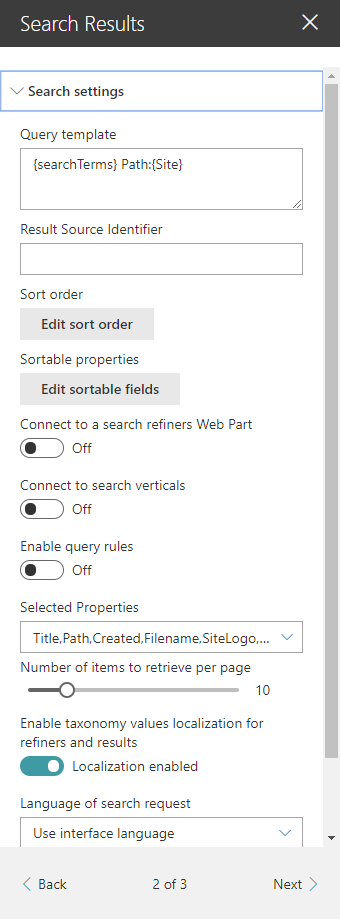
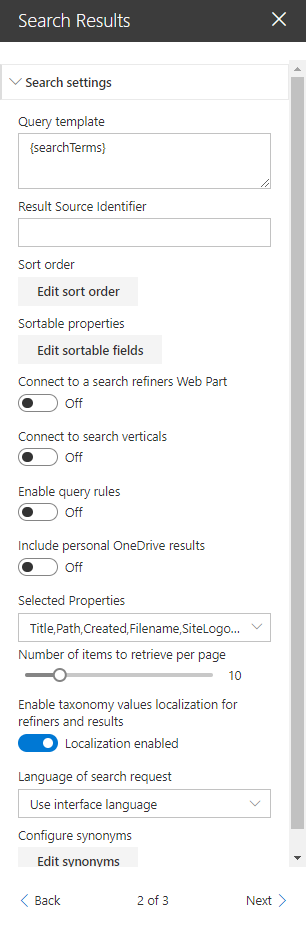
Added toggle to include personal OneDrive results

diff --git a/solutions/ModernSearch/react-search-refiners/spfx/src/webparts/searchResults/SearchResultsWebPart.ts b/solutions/ModernSearch/react-search-refiners/spfx/src/webparts/searchResults/SearchResultsWebPart.ts
@@ -202,6 +202,7 @@ export default class SearchResultsWebPart extends BaseClientSideWebPart<ISearchR
             resultSourceId: { $set: sourceId },
             sortList: { $set: this._convertToSortList(this.properties.sortList) },
             enableQueryRules: { $set: this.properties.enableQueryRules },
+            includeOneDriveResults: { $set: this.properties.includeOneDriveResults },
             selectedProperties: { $set: this.properties.selectedProperties ? this.properties.selectedProperties.replace(/\s|,+$/g, '').split(',') : [] },
             synonymTable: { $set: this._synonymTable },
             queryCulture: { $set: this.properties.searchQueryLanguage !== -1 ? this.properties.searchQueryLanguage : currentLocaleId },
@@ -647,7 +648,7 @@ export default class SearchResultsWebPart extends BaseClientSideWebPart<ISearchR
     }
 
     /**
-    * Save the useful information for the connected data source. 
+    * Save the useful information for the connected data source.
     * They will be used to get the value of the dynamic property if this one fails.
     */
     private _saveDataSourceInfo() {
@@ -720,7 +721,7 @@ export default class SearchResultsWebPart extends BaseClientSideWebPart<ISearchR
             this._templatePropertyPaneOptions = this._templateService.getTemplateParameters(this.properties.selectedLayout, this.properties, this._onUpdateAvailableProperties, this._availableManagedProperties);
         }
 
-        // Register result types inside the template      
+        // Register result types inside the template
         this._templateService.registerResultTypes(this.properties.resultTypes);
 
         await this._templateService.optimizeLoadingForTemplate(this._templateContentToDisplay);
@@ -896,6 +897,10 @@ export default class SearchResultsWebPart extends BaseClientSideWebPart<ISearchR
                 label: strings.EnableQueryRulesLabel,
                 checked: this.properties.enableQueryRules,
             }),
+            PropertyPaneToggle('includeOneDriveResults', {
+                label: strings.IncludeOneDriveResultsLabel,
+                checked: this.properties.includeOneDriveResults,
+            }),
             new PropertyPaneSearchManagedProperties('selectedProperties', {
                 label: strings.SelectedPropertiesFieldLabel,
                 description: strings.SelectedPropertiesFieldDescription,
@@ -989,7 +994,7 @@ export default class SearchResultsWebPart extends BaseClientSideWebPart<ISearchR
     }
 
     /**
-     * Make sure the dynamic property is correctly connected to the source if a search refiner component has been selected in options 
+     * Make sure the dynamic property is correctly connected to the source if a search refiner component has been selected in options
      */
     private ensureDataSourceConnection() {
 
@@ -1125,7 +1130,7 @@ export default class SearchResultsWebPart extends BaseClientSideWebPart<ISearchR
      */
     private _getStylingFields(): IPropertyPaneField<any>[] {
 
-        // Options for the search results layout 
+        // Options for the search results layout
         const layoutOptions = [
             {
                 iconProps: {
@@ -1493,7 +1498,7 @@ export default class SearchResultsWebPart extends BaseClientSideWebPart<ISearchR
         // Save the value in the root Web Part class to avoid fetching it again if the property list is requested again by any other property pane control
         this._availableManagedProperties = cloneDeep(properties);
 
-        // Refresh all fields so other property controls can use the new list 
+        // Refresh all fields so other property controls can use the new list
         this.context.propertyPane.refresh();
         this.render();
     }

diff --git a/solutions/ModernSearch/react-search-refiners/spfx/src/services/SearchService/SearchService.ts b/solutions/ModernSearch/react-search-refiners/spfx/src/services/SearchService/SearchService.ts
@@ -29,6 +29,7 @@ class SearchService implements ISearchService {
     private _resultSourceId: string;
     private _sortList: Sort[];
     private _enableQueryRules: boolean;
+    private _includeOneDriveResults: boolean;
     private _refiners: IRefinerConfiguration[];
     private _refinementFilters: IRefinementFilter[];
     private _synonymTable: ISynonymTable;
@@ -51,6 +52,9 @@ class SearchService implements ISearchService {
 
     public set enableQueryRules(value: boolean) { this._enableQueryRules = value; }
     public get enableQueryRules(): boolean { return this._enableQueryRules; }
+
+    public set includeOneDriveResults(value: boolean) { this._includeOneDriveResults = value; }
+    public get includeOneDriveResults(): boolean { return this._includeOneDriveResults; }
 
     public set refiners(value: IRefinerConfiguration[]) { this._refiners = value; }
     public get refiners(): IRefinerConfiguration[] { return this._refiners; }
@@ -111,6 +115,19 @@ class SearchService implements ISearchService {
                 QueryPropertyValueTypeIndex: 3
             }
         }];
+
+        // Toggle to include user's personal OneDrive results as a secondary result block
+        // https://docs.microsoft.com/en-us/sharepoint/support/search/private-onedrive-results-not-included
+        if (this._includeOneDriveResults) {
+            searchQuery.Properties.push({
+                Name: "ContentSetting",
+                Value: {
+                    IntVal: 3,
+                    QueryPropertyValueTypeIndex: 2
+                }
+            });
+        }
+
         searchQuery.Querytext = this._injectSynonyms(query);
 
         // Disable query rules by default if not specified
@@ -147,7 +164,7 @@ class SearchService implements ISearchService {
             // Get the refiners order specified in the property pane
             sortedRefiners = this.refiners.map(e => e.refinerName);
             searchQuery.Refiners = sortedRefiners.join(',');
-            
+
             const refinableDate = /(RefinableDate\d+)(?=,|$)|(LastModifiedTime)(?=,|$)|(LastModifiedTimeForRetention)(?=,|$)|(Created)(?=,|$)/g;
             if (refinableDate.test(searchQuery.Refiners)) {
                 // set refiner spec intervals to be used for fixed interval template - and which makes more sense overall
@@ -157,7 +174,7 @@ class SearchService implements ISearchService {
                 let weekAgo = this._getISOString("weeks", 1);
                 let monthAgo = this._getISOString("months", 1);
                 let threeMonthsAgo = this._getISOString("months", 3);
-                let yearAgo = this._getISOString("years", 1);  
+                let yearAgo = this._getISOString("years", 1);
 
                 searchQuery.Refiners = searchQuery.Refiners.replace(refinableDate, `$&(discretize=manual/${yearAgo}/${threeMonthsAgo}/${monthAgo}/${weekAgo}/${yesterDay})`);
             }
@@ -201,7 +218,7 @@ class SearchService implements ISearchService {
                 const resultRows = r2.RawSearchResults.PrimaryQueryResult.RelevantResults.Table.Rows;
                 let refinementResultsRows = r2.RawSearchResults.PrimaryQueryResult.RefinementResults;
 
-                const refinementRows: any = refinementResultsRows ? refinementResultsRows.Refiners : [];               
+                const refinementRows: any = refinementResultsRows ? refinementResultsRows.Refiners : [];
 
                 // Map search results
                 let searchResults: ISearchResult[] = resultRows.map((elt) => {

diff --git a/solutions/ModernSearch/react-search-refiners/spfx/src/webparts/searchResults/loc/mystrings.d.ts b/solutions/ModernSearch/react-search-refiners/spfx/src/webparts/searchResults/loc/mystrings.d.ts
@@ -33,6 +33,7 @@ declare interface ISearchResultsWebPartStrings {
     ResultSourceIdLabel: string;
     InvalidResultSourceIdMessage: string;
     EnableQueryRulesLabel: string;
+    IncludeOneDriveResultsLabel: string;
     StylingSettingsGroupName: string;
     CountMessageShort: string;
     CountMessageLong: string;
@@ -60,11 +61,11 @@ declare interface ISearchResultsWebPartStrings {
     UseRefinersWebPartLabel: string;
     UseRefinersFromComponentLabel: string;
     UsePaginationFromComponentLabel: string;
-    customTemplateFieldsLabel: string;  
-    customTemplateFieldsPanelHeader: string;  
-    customTemplateFieldsConfigureButtonLabel: string;  
-    customTemplateFieldTitleLabel: string;  
-    customTemplateFieldPropertyLabel: string;  
+    customTemplateFieldsLabel: string;
+    customTemplateFieldsPanelHeader: string;
+    customTemplateFieldsConfigureButtonLabel: string;
+    customTemplateFieldTitleLabel: string;
+    customTemplateFieldPropertyLabel: string;
     Sort: {
         SortPropertyPaneFieldLabel
         SortListDescription: string;
@@ -74,10 +75,10 @@ declare interface ISearchResultsWebPartStrings {
         SortPanelSortFieldLabel:string;
         SortPanelSortFieldAria:string;
         SortPanelSortFieldPlaceHolder:string;
-        SortPanelSortDirectionLabel:string;         
+        SortPanelSortDirectionLabel:string;
         SortableFieldsPropertyPaneField: string;
         SortableFieldsDescription: string;
-        SortableFieldManagedPropertyField: string;   
+        SortableFieldManagedPropertyField: string;
         SortableFieldDisplayValueField: string;
         EditSortableFieldsLabel: string;
         EditSortLabel: string;

diff --git a/solutions/ModernSearch/react-search-refiners/spfx/src/webparts/searchResults/loc/fr-fr.js b/solutions/ModernSearch/react-search-refiners/spfx/src/webparts/searchResults/loc/fr-fr.js
@@ -20,9 +20,9 @@ define([], function() {
     "ShowResultsCountLabel": "Afficher le nombre de résultats",
     "ShowBlankLabel": "Ne rien afficher si aucun résultat",
     "ShowBlankEditInfoMessage": "Aucun résultat pour cette requête. Ce composant Web Part restera vide en mode affichage conformément aux paramètres.",
-    "NoFilterConfiguredLabel": "Aucun filtre configuré", 
+    "NoFilterConfiguredLabel": "Aucun filtre configuré",
     "SearchQueryPlaceHolderText": "Requête de recherche au format KQL",
-    "EmptyFieldErrorMessage": "Ce champ ne peut pas être vide",    
+    "EmptyFieldErrorMessage": "Ce champ ne peut pas être vide",
     "PlaceHolderEditLabel": "Éditer",
     "PlaceHolderConfigureBtnLabel": "Configurer",
     "PlaceHolderIconText": "Web Part de recherche",
@@ -30,6 +30,7 @@ define([], function() {
     "ResultSourceIdLabel": "Identifiant de l'origine de résultats",
     "InvalidResultSourceIdMessage": "Identifiant invalide",
     "EnableQueryRulesLabel": "Activer les règles de requête",
+    "IncludeOneDriveResultsLabel": "Inclure les résultats personnels OneDrive",
     "StylingSettingsGroupName": "Options d'affichage",
     "SelectedPropertiesFieldDescription": "Propriétés à récupérer des résulats de recherche.",
     "SearchQueryKeywordsFieldDescription": "Utilisez une requête de recherche prédéfinie pour obtenir un ensemble de résultats statique.",

diff --git a/solutions/ModernSearch/react-search-refiners/spfx/src/webparts/searchResults/loc/es-es.js b/solutions/ModernSearch/react-search-refiners/spfx/src/webparts/searchResults/loc/es-es.js
@@ -30,6 +30,7 @@ define([], function () {
     "ResultSourceIdLabel": "Identificador de origen de resultados",
     "InvalidResultSourceIdMessage": "Indentificador Inválido",
     "EnableQueryRulesLabel": "Habilitar reglas de consulta",
+    "IncludeOneDriveResultsLabel": "Incluir resultados personales de OneDrive",
     "StylingSettingsGroupName": "Opciones de Estilo",
     "SelectedPropertiesFieldDescription": "Especificar las propiedades para recuperar de los resultados de búsqueda.",
     "SearchQueryKeywordsFieldDescription": "Utilice palabras clave de consulta de búsqueda predefinidas para recuperar un conjunto estático de resultados.",

diff --git a/solutions/ModernSearch/react-search-refiners/spfx/src/webparts/searchResults/loc/nl-nl.js b/solutions/ModernSearch/react-search-refiners/spfx/src/webparts/searchResults/loc/nl-nl.js
@@ -30,6 +30,7 @@ define([], function () {
     "ResultSourceIdLabel": "Id van de resultatenbron",
     "InvalidResultSourceIdMessage": "Incorrecte id",
     "EnableQueryRulesLabel": "Query rules ingeschakeld",
+    "IncludeOneDriveResultsLabel": "Persoonlijke OneDrive-resultaten opnemen",
     "StylingSettingsGroupName": "Opmaak opties",
     "SelectedPropertiesFieldDescription": "Geef de eigenschappen op die moeten worden opgehaald uit de zoekresultaten.",
     "SearchQueryKeywordsFieldDescription": "Gebruik vooraf gedefinieerde zoekwoorden om een statische set resultaten op te halen.",

diff --git a/solutions/ModernSearch/react-search-refiners/spfx/src/webparts/searchResults/loc/en-us.js b/solutions/ModernSearch/react-search-refiners/spfx/src/webparts/searchResults/loc/en-us.js
@@ -30,6 +30,7 @@ define([], function () {
     "ResultSourceIdLabel": "Result Source Identifier",
     "InvalidResultSourceIdMessage": "Invalid identifier",
     "EnableQueryRulesLabel": "Enable query rules",
+    "IncludeOneDriveResultsLabel": "Include personal OneDrive results",
     "StylingSettingsGroupName": "Styling options",
     "SelectedPropertiesFieldDescription": "Specifies the properties to retrieve from the search results.",
     "SearchQueryKeywordsFieldDescription": "Use pre-defined search query keywords to retrieve a static set of results.",

diff --git a/solutions/ModernSearch/react-search-refiners/spfx/src/webparts/searchResults/ISearchResultsWebPartProps.ts b/solutions/ModernSearch/react-search-refiners/spfx/src/webparts/searchResults/ISearchResultsWebPartProps.ts
@@ -14,6 +14,7 @@ export interface ISearchResultsWebPartProps {
     resultSourceId: string;
     sortList: ISortFieldConfiguration[];
     enableQueryRules: boolean;
+    includeOneDriveResults: boolean;
     maxResultsCount: number;
     selectedProperties: string;
     sortableFields: ISortableFieldConfiguration[];

diff --git a/solutions/ModernSearch/react-search-refiners/README.md b/solutions/ModernSearch/react-search-refiners/README.md
@@ -124,6 +124,7 @@ Sortable fields | The search managed properties to use for sorting. With SharePo
 Connect to a search refiners Web Part | If enable, select the search refiners Web Part to use on the current page to get selected filters. It is a 2 ways connection so don't forget to connect the targeted search refiners to the search results Web Part as well.
 Connect to a search verticals Web Part | If enable, select the search verticals Web Part to connect to.
 Enable Query Rules | Enable the query rules if applies. Turn this options  'on' to display your SharePoint Promoted results (links only) and make result blocks available to custom renderers.
+Include OneDrive results | Include OneDrive results if applicable. Turn this option 'on' to make users' personal OneDrive results available to custom renderers. Read more [here](https://docs.microsoft.com/en-us/sharepoint/support/search/private-onedrive-results-not-included).
 Selected properties | The search managed properties to retrieve. You can select them from a predefined list or add them as free text if not listed. Then, these properties are available in your Handlebars template with the syntax (`item.property_name` or `property_name` inside the `{{#each}}` loop).
 Number of items to retrieve per page | Quite explicit. The paging behavior is done directly by the search API (See the *SearchDataProvider.ts* file), not by the code on post-render.
 
@@ -344,7 +345,7 @@ Version|Date|Comments
 3.5.0.0 | July 8th, 2019 | Fixes: Taxonomy tags, web part header, theme colors, search box clearing, loading of handlebars helpers. Added Spanish locale. Optimized CSS references (may break in custom templates if you used some of the OUIF styles). Optimized bundle size for run-time. Added more options for time zone handling with `getDate`.
 3.6.2.0 | Aug 13th, 2019 | <ul><li>Does not work with IE11 (looking into it)</li><li>Removed the deprecated 'office-ui-fabric' module and updated layouts with the Office UI React components by wrapping them with web components.</li><li>Added a DetailsList and Debug layouts + template options for 'Tiles' (placeholders fileds, etc.) and 'Details List' (column builder, etc.).</li><li>Updated property pane fields (Search Results and Refiners WP) to use a dynamic search managed properties list instead of text values.</li><li>Added `regEx` and `getUnique` helpers.</li><li>Added Dutch translation.</li></ul>
 3.6.3.0 | Aug 14th, 2019 | Now works in IE11, just ignore the errors :)
-3.7.0.0 | Oct 31st, 2019 | <ul><li>Allow selecting between URL Fragment or QueryString parameter.</li><li>Refiner flashing fix.</li><li>Fixed Page token handling.</li><li>Added more handlebar helper methods.</li><li>Removed default path filter on the webpart.</li><li>Added sorting option for refiners.</li><li>Better default icon handling and support for using [OUIFR icons](https://developer.microsoft.com/en-us/fabric#/styles/web/icons) in your templates. See [TEMPLATING.md documentation](./docs/TEMPLATING.md#Web-components) for more information.</li><li>Added support for rendering secondary result blocks in custom renderers.</li><li>Allow custom renderers to render even if there are zero search results to display.</li><li>Added fixed date refiner template.</li><li>Fix for using custom code renderer.</li><li>Upgraded to SPFx v1.9.1.</li></ul>
+3.7.0.0 | Oct 31st, 2019 | <ul><li>Allow selecting between URL Fragment or QueryString parameter.</li><li>Refiner flashing fix.</li><li>Fixed Page token handling.</li><li>Added more handlebar helper methods.</li><li>Removed default path filter on the webpart.</li><li>Added sorting option for refiners.</li><li>Better default icon handling and support for using [OUIFR icons](https://developer.microsoft.com/en-us/fabric#/styles/web/icons) in your templates. See [TEMPLATING.md documentation](./docs/TEMPLATING.md#Web-components) for more information.</li><li>Added support for rendering secondary result blocks in custom renderers.</li><li>Added toggle to include OneDrive results as a secondary result block (not currently visible without custom renderer).</li><li>Allow custom renderers to render even if there are zero search results to display.</li><li>Added fixed date refiner template.</li><li>Fix for using custom code renderer.</li><li>Upgraded to SPFx v1.9.1.</li></ul>
 
 ## Important notice on upgrading the solution from pre v2.2.0.0
 **Due to code restructuring we have hit an edge case which impacts upgrades from previous versions. To solve the issue go to `https://<tenant>.sharepoint.com/sites/<appcatalog>/Lists/ComponentManifests` and remove the entries for SearchBox and Search Results, and then upload the .sppkg for the new release.**
